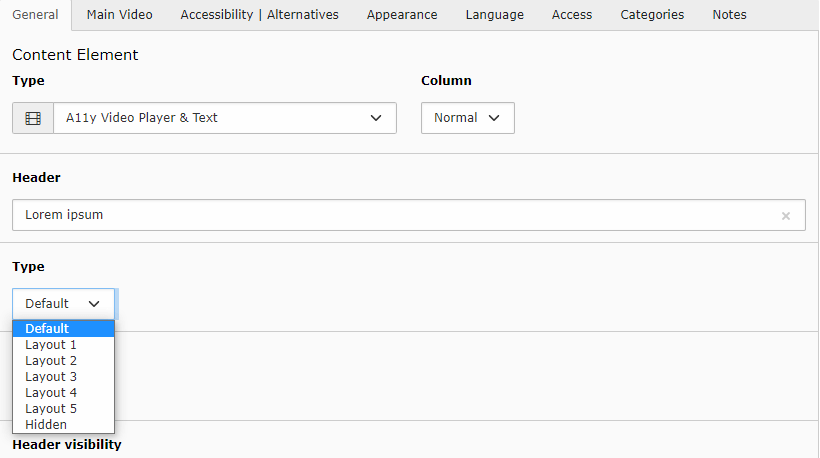
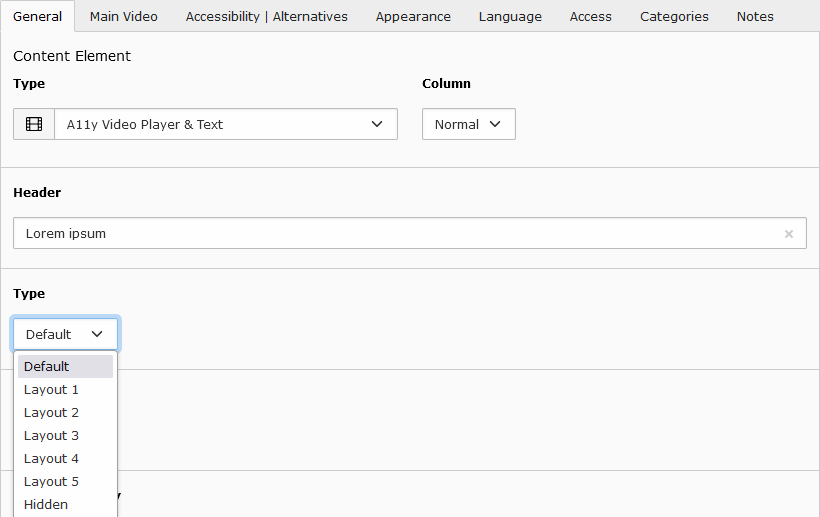
[DOCS] update documentation, add new screen shots

diff --git a/README.md b/README.md
@@ -76,17 +76,13 @@ git clone https://github.com/iundd/a11y_me_video.git
 
 ### Preparation: Include static TypoScript
 
-The extension ships some TypoScript code which needs to be included.
+The extension requires some TypoScript code, which must be integrated.
 
 1. Switch to the root page of your site.
-
-2. Switch to the **Template module** and select *Info/Modify*.
-
-3. Press the link **Edit the whole template record** and switch to the tab *Includes*.
-
-4. Select **a11y_video_player** at the field *Include static (from extensions):*
-   
-   For some css classes to work, you also need to select **Fluid Content Elements CSS (optional)**
+2. Switch to the **TypoScript module** and select the **TypoScript record**.
+3. Press the **Edit the whole template record** button and switch to the tab **Advanced Options**.
+4. Go to **Include TypoScript sets**. Add **Fluid Content Elements** and **a11y_me_video** to **Selected Items**.
+5. For some css classes to work, you also need to select **Fluid Content Elements CSS (optional)**
 
 ![screen shot of including static TypeScript!](Documentation/Images/TemplateInclude.png)
 
@@ -101,7 +97,7 @@ This project uses [semantic versioning](https://semver.org) which means that
 *  **major updates** (e.g. 1.0.0 => 2.0.0) contain breaking changes which can be
    refactorings, features or bugfixes.
 
-
+Textalternative
 
 ## Configuration und Customisation
 

diff --git a/Documentation/AdministratorManual/Installation/Index.rst b/Documentation/AdministratorManual/Installation/Index.rst
@@ -43,18 +43,17 @@ Download from extensions.typo3.org
 Preparation: Include static TypoScript
 ======================================
 
-The extension ships some TypoScript code which needs to be included.
+The extension requires some TypoScript code, which must be integrated.
 
 #. Switch to the root page of your site.
 
-#. Switch to the **Template module** and select *Info/Modify*.
+#. Switch to the **TypoScript module** and select the **TypoScript record**.
 
-#. Press the link **Edit the whole template record** and switch to the tab *Includes*.
+#. Press the **Edit the whole template record** button and switch to the tab **Advanced Options**.
 
-#. Select **a11y_video_player** at the field *Include static (from extensions):*
+#. Go to **Include TypoScript sets**. Add **Fluid Content Elements** and **a11y_me_video** to **Selected Items**.
 
-   For some css classes to work, you also need to select
-   **Fluid Content Elements CSS (optional)**
+#. For some css classes to work, you also need to select **Fluid Content Elements CSS (optional)**
 
 .. figure:: ../../Images/TemplateInclude.png
    :width: 820
